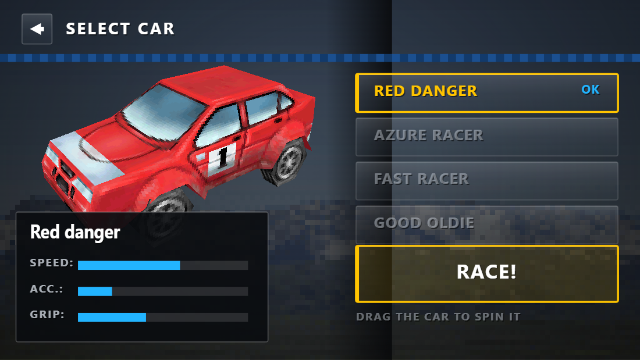
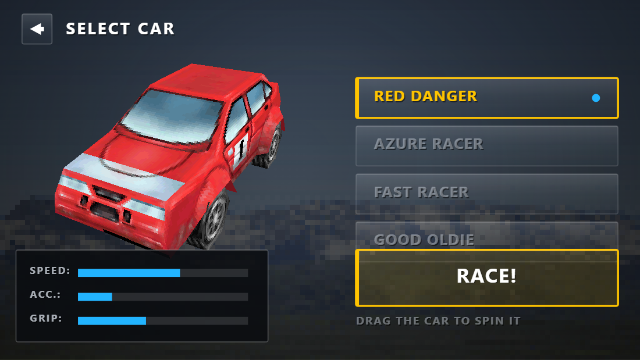
Fix the hood and bumper cameras, the top-down view, and tidy the car menu
Cameras
- the hood camera sits over the windscreen looking down the bonnet, so the
  bonnet reads as a shape instead of a hairline at the bottom of the frame
- the on-car cameras are bolted to the car now: no vertical lag, and they
  are lifted if the road underneath rises above them, so a crest or a jump
  can no longer put the view under the track (measured: the bumper camera
  keeps at least 0.35 units of clearance over 40 tiles of the track)
- the top-down camera looks down and forward, so the nose points up the
  screen instead of down
- the cinematic camera is gone

Car select
- the blue checkered rule is gone from the header, and the model no longer
  runs under a hard-edged fade
- the stat card is a compact strip of three bars under the model
- the car list marks the unlocked cars with a dot instead of a glyph

Pre-race
- the blue checkered rule is gone from the card

diff --git a/game/js/race.js b/game/js/race.js
@@ -34,27 +34,32 @@ const textMid = R3D.textMid, tagMid = R3D.tagMid;
 //   lag  - how fast the camera frame follows the car's yaw (the original
 //          chase cam trails noticeably; the rigid ones barely lag at all)
 // The car's own model is 5.45 long (nose at z = 2.73), 2.65 wide and 2.02
-// tall, so the on-car cameras have to sit clear of the bodywork: the hood
-// camera rides just above the bonnet line, the bumper camera just ahead of
-// the nose.
+// tall, so the on-car cameras have to sit clear of the bodywork.
+//
+//  chase  - behind and above, the original's trailing yaw
+//  hood   - over the windscreen, looking down the bonnet
+//  bumper - on the nose, at bumper height
+//  top    - from above, the nose pointing up the screen
+//
+// `rigid` mounts the camera on the car (no vertical lag) and `clear` keeps it
+// above the road surface, so a crest or a jump can never swallow it.
 const CAMS = {
   chase: {
     label: 'Chase', off: [0, 3.2, -9.0], look: [0, 1.4, 8], lag: 25 / 6,
   },
   hood: {
-    label: 'Hood', off: [0, 1.42, 1.55], look: [0, 0.95, 20], lag: 25 / 2.6,
+    label: 'Hood', off: [0, 1.72, 0.55], look: [0, 0.70, 16], lag: 25 / 2.6,
+    rigid: true, clear: 0.45,
   },
   bumper: {
-    label: 'Bumper', off: [0, 0.52, 3.15], look: [0, 0.30, 24], lag: 25 / 2.6,
+    label: 'Bumper', off: [0, 0.55, 2.90], look: [0, 0.34, 22], lag: 25 / 2.6,
+    rigid: true, clear: 0.35,
   },
   top: {
-    label: 'Top down', off: [0, 11.5, 0.2], look: [0, 0, 0], lag: 25 / 2,
-  },
-  cine: {
-    label: 'Cinematic', off: [0, 2.3, -7.5], look: [0, 1.0, 0], lag: 25 / 3, orbit: 0.30,
+    label: 'Top down', off: [0, 13.0, -2.2], look: [0, 0, 1.6], lag: 25 / 2,
   },
 };
-const CAM_ORDER = ['chase', 'hood', 'bumper', 'top', 'cine'];
+const CAM_ORDER = ['chase', 'hood', 'bumper', 'top'];
 
 // camera framing for the landscape frame. With a 60 degree vertical lens and
 // the camera 9 units back, the world keeps EXACTLY the original's pixel
@@ -141,7 +146,6 @@ const raceScene = {
     this.azCnt = 0; this.cI = 0; this.coastT = 0;
     this.doneT = 0; this.orbitFrom = 0;
     this.camMode = CAMS[S().settings.camera] ? S().settings.camera : 'chase';
-    this.cineT = 0;
     this.horizon = H / 2;
     this.gold = this.track.medals[0];
     this.teleport(5);
@@ -267,7 +271,6 @@ const raceScene = {
   setCamera(mode) {
     if (!CAMS[mode]) return;
     this.camMode = mode;
-    this.cineT = 0;
     // snap the camera height, otherwise it would sink or rise into place
     this.camY = this.pos.y + CAMS[mode].off[1];
     S().settings.camera = mode;
@@ -605,7 +608,7 @@ const raceScene = {
   // -------------------------------------------------- camera
   // The chase cam keeps the original's trailing yaw (the car visibly leads
   // the camera into a corner). The other viewpoints are mounted on the car
-  // and barely lag at all, and the cinematic one drifts around it.
+  // and barely lag at all.
   updateCamera(dt) {
     const done = this.phase === 'done' && this.doneT > 1 && this.coastT > 0;
     const mode = CAMS[this.camMode] || CAMS.chase;
@@ -633,24 +636,18 @@ const raceScene = {
     });
 
     let off = mode.off, look = mode.look;
-    if (mode.orbit) {
-      // the cinematic camera circles the car in world space, high enough to
-      // stay above the roof and clear of the tree walls
-      this.cineT = (this.cineT || 0) + dt * mode.orbit;
-      const a = this.cineT;
-      const c = this.pos;
-      const rad = 6.4;
-      off = [Math.sin(a) * rad, 3.7 + Math.sin(a * 0.7) * 0.5, Math.cos(a) * rad];
-      this.camPos.set(c.x + off[0], c.y + off[1], c.z + off[2]);
-      camera.position.copy(this.camPos);
-      camera.lookAt(c.x, c.y + 1.3, c.z);
-      this.setHorizonFromLook();
-      this.placeCar();
-      return;
-    }
-
     const p = toWorld(off[0], off[1], off[2]);
-    this.camY += (p.y - this.camY) * (1 - Math.exp(-dt * 25 / 1.6));
+    if (mode.rigid) {
+      // a camera bolted to the car: no vertical lag at all, and it is lifted
+      // if the road underneath rises above it (a crest, a jump)
+      this.camY = p.y;
+      if (mode.clear) {
+        const g = R3D.sampleGround(this.world, p.x, p.z, this.segHint);
+        if (g && p.y < g.y + mode.clear) this.camY = g.y + mode.clear;
+      }
+    } else {
+      this.camY += (p.y - this.camY) * (1 - Math.exp(-dt * 25 / 1.6));
+    }
     this.camPos.set(p.x, this.camY, p.z);
     camera.position.copy(this.camPos);
 
@@ -929,18 +926,18 @@ const raceScene = {
     ui.fillStyle = 'rgba(4,5,7,0.55)';
     ui.fillRect(0, 0, W, H);
     // banner card at the top
-    panel(66, 14, W - 96, 112, { r: 2, fill: 'rgba(12,14,18,0.90)' });
-    checkers(84, 30, W - 132, 4, 8);
-    tag(R3D.game.mode === 'champ' ? D.lang[17] : D.lang[71], W / 2 + 14, 44, 5, C.accent, 12, 1.6);
-    text(this.track.name, W / 2 + 14, 62, 5, C.white, 28, '700', 0, true);
-    tag(D.cars[R3D.game.carIdx].name, W / 2 + 14, 100, 5, C.dim, 12, 1.4);
+    plate(66, 14, W - 96, 104, { r: 2, fill: 'rgba(12,14,18,0.90)', topLine: 'rgba(255,255,255,0.10)' });
+    tag(R3D.game.mode === 'champ' ? D.lang[17] : D.lang[71], W / 2 + 14, 32, 5, C.accent, 12, 1.6);
+    text(this.track.name, W / 2 + 14, 50, 5, C.white, 28, '700', 0, true);
+    tag(D.cars[R3D.game.carIdx].name, W / 2 + 14, 88, 5, C.dim, 12, 1.4);
     // big start button, kept clear of the car in the middle of the screen
     const bw = 200, bh = 56, bx = W - bw - 26, by = H - bh - 26;
-    panel(bx, by, bw, bh, { r: 2, fill: 'rgba(255,196,0,0.16)', borderColor: C.accent, lw: 2 });
+    plate(bx, by, bw, bh, { r: 2, fill: 'rgba(255,196,0,0.16)', borderColor: C.accent, lw: 2 });
     const pulse = 0.5 + 0.5 * Math.sin(R3D.clock * 3);
     ui.save();
     ui.globalAlpha = 0.25 + 0.3 * pulse;
-    panel(bx - 3, by - 3, bw + 6, bh + 6, { r: 2, borderColor: C.accent, lw: 1 });
+    roundRect(bx - 3, by - 3, bw + 6, bh + 6, 4);
+    ui.strokeStyle = C.accent; ui.lineWidth = 1; ui.stroke();
     ui.restore();
     tag('Tap to start', bx + bw / 2, by + 20, 5, C.white, 17, 2);
     tapArea('start', bx, by, bw, bh, () => {
@@ -948,8 +945,8 @@ const raceScene = {
       this.phase = 'countdown'; this.cd = 0; this.cdN = 0;
     });
     // small back button
-    const bxx = 38, byy = 70, rr = 15;
-    panel(bxx - rr, byy - rr, rr * 2, rr * 2, { r: 2, fill: 'rgba(12,14,18,0.80)' });
+    const bxx = 38, byy = 66, rr = 15;
+    plate(bxx - rr, byy - rr, rr * 2, rr * 2, { r: 2, fill: 'rgba(12,14,18,0.80)' });
     R3D.iconArrow(bxx, byy, 14, 3, C.white);
     tapArea('pback', bxx - rr - 4, byy - rr - 4, rr * 2 + 8, rr * 2 + 8, () => {
       R3D.clearScene3d();

diff --git a/game/js/scenes.js b/game/js/scenes.js
@@ -15,8 +15,8 @@ const ui = document.getElementById('ui').getContext('2d');
 const renderer = R3D._renderer, camera = R3D._camera;
 const S = () => R3D.saveObj;
 const C = R3D.colors;
-const text = R3D.text, tag = R3D.tag, panel = R3D.panel, checkers = R3D.checkers,
-      roundRect = R3D.roundRect, measure = R3D.measure,
+const text = R3D.text, tag = R3D.tag, panel = R3D.panel, plate = R3D.plate,
+      checkers = R3D.checkers, roundRect = R3D.roundRect, measure = R3D.measure,
       wasPressed = R3D.wasPressed, AudioSys = R3D.audio,
       tapArea = R3D.tapArea;
 
@@ -36,7 +36,7 @@ function header(title, opts) {
   opts = opts || {};
   if (opts.back) {
     const bx = PAD, by = HEAD_Y, r = 15;
-    panel(bx, by, r * 2, r * 2, { r: 2, fill: PLATE });
+    plate(bx, by, r * 2, r * 2, { r: 2 });
     R3D.iconArrow(bx + r, by + r, 14, 3, C.white);
     tapArea('back', bx - 4, by - 4, r * 2 + 8, r * 2 + 8, () => {
       if (opts.back === 'title') R3D.setScene(titleScene);
@@ -46,7 +46,7 @@ function header(title, opts) {
   } else {
     tag(title, PAD, HEAD_Y + 8, 0, C.white, 16, 2);
   }
-  checkers(0, STRIP_Y, W, 3, 8);
+  if (opts.strip !== false) checkers(0, STRIP_Y, W, 3, 8);
 }
 
 function lockIcon(x, y) {
@@ -97,6 +97,12 @@ function bigButton(id, x, y, w, h, label, onTap, opts) {
   if (opts.right) {
     tag(opts.right, x + w - 18, ty, 8, opts.rightColor || C.accent2, opts.rightSize || 12, 0.9);
   }
+  if (opts.dot) {
+    ui.beginPath();
+    ui.arc(x + w - 22, y + h / 2, 4, 0, Math.PI * 2);
+    ui.fillStyle = C.accent2;
+    ui.fill();
+  }
   // press feedback - the row flashes for a fraction of a second
   const fl = R3D.flashFor(id);
   if (fl > 0) {
@@ -122,6 +128,7 @@ function menuColumn(items, onPick, opts) {
       active: opts.sel === i,
       right: it.right,
       rightColor: it.rightColor,
+      dot: it.dot,
       color: it.locked ? C.faint : undefined,
       fill: it.fill,
       size: it.size || 15,
@@ -319,10 +326,10 @@ const trackSelectScene = {
 
 // ==================================================================== CAR SELECT
 const carSelectScene = {
-  sel: 0, yaw: 0, v: 26, spinVel: 250, menuMusic: true, confirmT: 0,
+  sel: 0, yaw: 0, v: 32, spinVel: 250, menuMusic: true, confirmT: 0,
   enter() {
     this.sel = R3D.game.carIdx || 0;
-    this.yaw = 0; this.v = 26; this.spinVel = 250; this.confirmT = 0;
+    this.yaw = 0; this.v = 32; this.spinVel = 250; this.confirmT = 0;
     R3D.clearScene3d();
     camera.position.set(0, 0, 0);
     camera.rotation.set(0, 0, 0);
@@ -394,47 +401,40 @@ const carSelectScene = {
       renderer.setViewport(0, 0, W, H);
       ui.drawImage(R3D._gl, 0, 0, W, H);
     }
-    const g = ui.createLinearGradient(SHOP_W - 60, 0, SHOP_W + 6, 0);
-    g.addColorStop(0, 'rgba(8,9,11,0)');
-    g.addColorStop(1, 'rgba(8,9,11,0.9)');
-    ui.fillStyle = g; ui.fillRect(SHOP_W - 60, 0, 66, H);
 
-    header('Select car', { back: () => R3D.setScene(trackSelectScene) });
-    const car = D.cars[this.sel];
+    header('Select car', { back: () => R3D.setScene(trackSelectScene), strip: false });
     const locked = S().cars[this.sel] === 1;
-    // the selected car's card sits under the showroom, clear of the model
-    panel(16, 212, 252, 130, { r: 2, fill: 'rgba(10,12,16,0.90)', topLine: 'rgba(255,255,255,0.12)' });
-    text(car.name, 30, 224, 0, locked ? C.faint : C.white, 19, '700', 0, true);
+    // the stat card sits under the model, clear of it
+    plate(16, 250, 252, 92, { r: 2, fill: 'rgba(10,12,16,0.88)', topLine: 'rgba(255,255,255,0.10)' });
     if (locked) {
-      tag(D.lang[9], 30, 256, 0, C.accent, 12, 1.6);
+      tag(D.lang[9], 30, 266, 0, C.accent, 12, 1.6);
       const msgs = ['4x ' + D.lang[8], '8x ' + D.lang[60], '12x ' + D.lang[28]];
-      msgs.forEach((m, i) => tag(m, 30, 280 + i * 20, 0, C.dim, 12, 1.2));
+      msgs.forEach((m, i) => tag(m, 30, 292 + i * 18, 0, C.dim, 11, 1.2));
     } else {
       const bars = [[D.lang[65], R3D.STAT_TOP], [D.lang[4], R3D.STAT_ACC], [D.lang[30], R3D.STAT_GRIP]];
-      let y = 258;
+      let y = 266;
       for (const [label, stat] of bars) {
-        tag(label, 30, y, 0, C.dim, 11, 1.4);
+        tag(label, 30, y, 0, C.dim, 10, 1.4);
         const bx = 78, bw = 170;
         ui.fillStyle = 'rgba(255,255,255,0.12)';
-        ui.fillRect(bx, y + 3, bw, 9);
+        ui.fillRect(bx, y + 3, bw, 8);
         ui.fillStyle = C.accent2;
-        ui.fillRect(bx, y + 3, Math.max(6, bw * stat[this.sel] / 100), 9);
-        y += 26;
+        ui.fillRect(bx, y + 3, Math.max(6, bw * stat[this.sel] / 100), 8);
+        y += 24;
       }
     }
 
     const items = D.cars.map((c, i) => ({
       label: c.name,
       locked: S().cars[i] === 1,
-      right: S().cars[i] === 1 ? '' : 'OK',
-      rightColor: C.accent2,
+      dot: S().cars[i] === 0,
     }));
-    menuColumn(items, (i) => { this.sel = i; this.swap(); }, { x: COL_X, y: 74, h: 38, gap: 6, sel: this.sel });
+    menuColumn(items, (i) => { this.sel = i; this.swap(); }, { x: COL_X, y: 74, h: 36, gap: 6, sel: this.sel });
     if (!locked) {
-      bigButton('race', COL_X, 246, COL_W, 56, 'Race!', () => this.start(), {
+      bigButton('race', COL_X, 250, COL_W, 56, 'Race!', () => this.start(), {
         active: true, center: true, size: 20, color: C.white, fill: 'rgba(255,196,0,0.12)', border: C.accent,
       });
-      tag('Drag the car to spin it', COL_X, 312, 0, C.faint, 11, 1.2);
+      tag('Drag the car to spin it', COL_X, 316, 0, C.faint, 11, 1.2);
     }
   },
 };

diff --git a/README.md b/README.md
@@ -66,19 +66,20 @@ scenery.
 
 ## Cameras
 
-Five viewpoints, switched with the **C** key (during a race or from the pause
+Four viewpoints, switched with the **C** key (during a race or from the pause
 menu) or from *Pause → Settings → Camera*. The choice is remembered.
 
 | Camera | What you see |
 |--------|--------------|
 | **Chase** | The default: behind and above the car, with the original's trailing yaw so the car leads the camera into a corner. |
-| **Hood** | From the bonnet, just above the bonnet line, looking down the road. |
-| **Bumper** | At the very front of the car, bumper height. The fastest, most committed view. |
-| **Top down** | Straight down over the car — the rally driver's view of a corner entry. |
-| **Cinematic** | A low camera that drifts around the car while you drive. |
+| **Hood** | Over the windscreen, looking down the bonnet. |
+| **Bumper** | On the nose, at bumper height. The fastest, most committed view. |
+| **Top down** | From above, the nose pointing up the screen — the rally driver's view of a corner entry. |
 
-The background scenery is pinned to the horizon of whichever camera is
-active, so the sky and the distant hills always line up.
+The hood and bumper cameras are bolted to the car: they do not lag, and they
+are lifted if the road rises above them, so a crest or a jump can never
+swallow the view. The background scenery is pinned to the horizon of
+whichever camera is active, so the sky and the distant hills always line up.
 
 Keyboard still works for desktop testing: arrows / WASD, Enter = OK,
 Esc = back, P = pause.
@@ -98,8 +99,8 @@ Esc = back, P = pause.
 - **Touch-first input**: press-and-hold pads, tap-to-confirm, multi-touch, and
   a portrait "rotate your device" hint on phones. Every tap answers with a
   short flash so the screen never feels dead.
-- **Five cameras** — chase, hood, bumper, top-down and cinematic — switched
-  with the C key or from the pause menu.
+- **Four cameras** — chase, hood, bumper and top-down — switched with the C
+  key or from the pause menu.
 - **Screen changes**: a shutter closes over the scene, the screen swaps at
   full cover and the shutter opens again, while the scene itself drifts a few
   pixels. 180 ms in, 220 ms out — enough to follow, quick enough to feel
